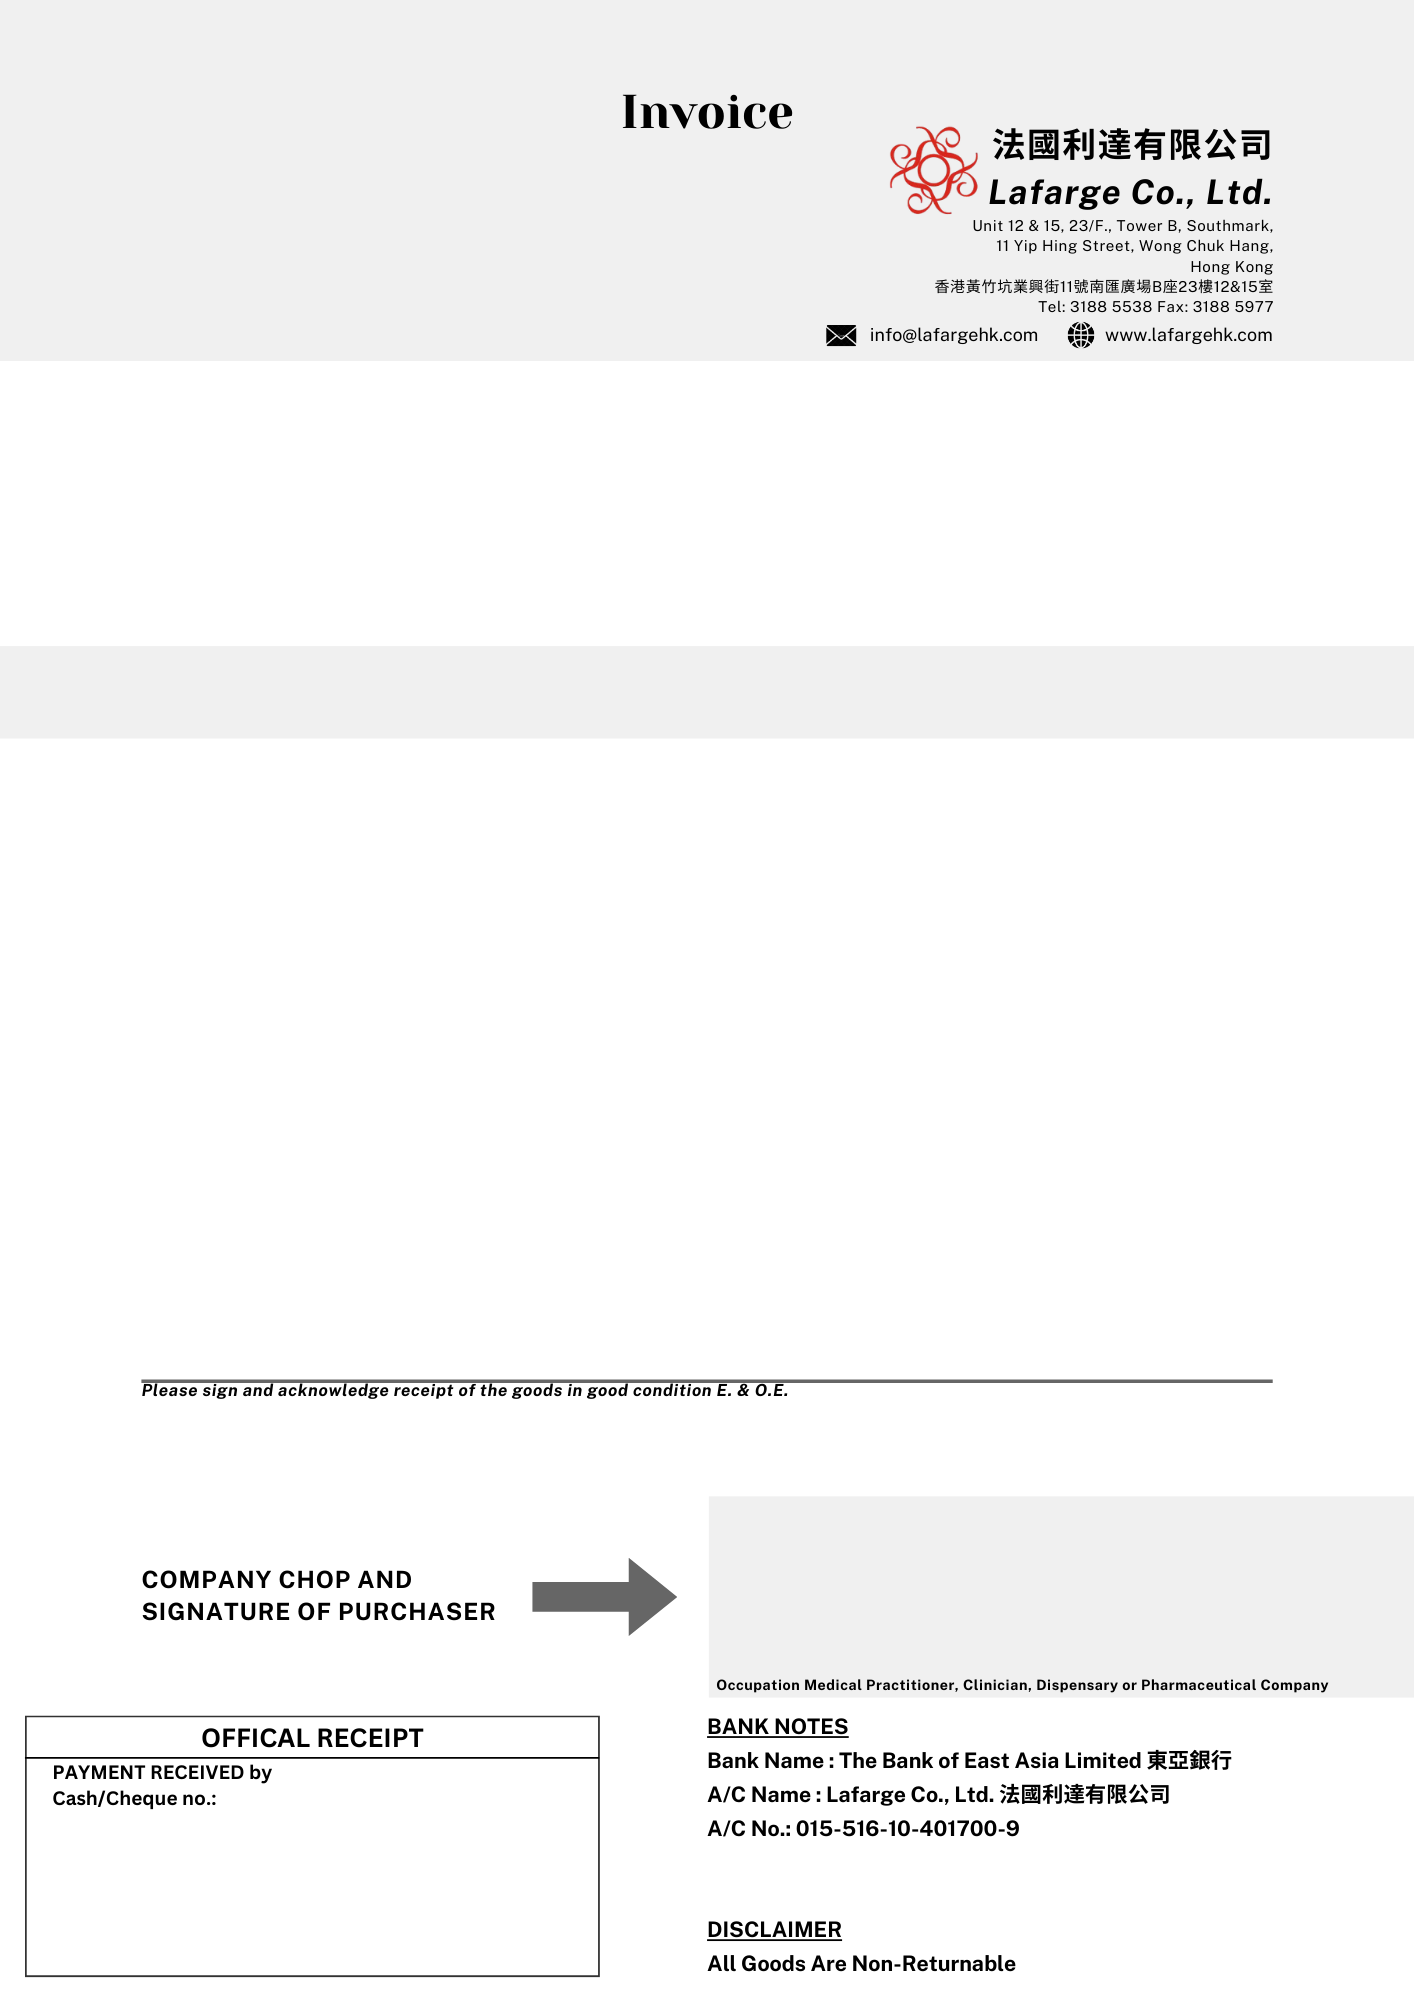
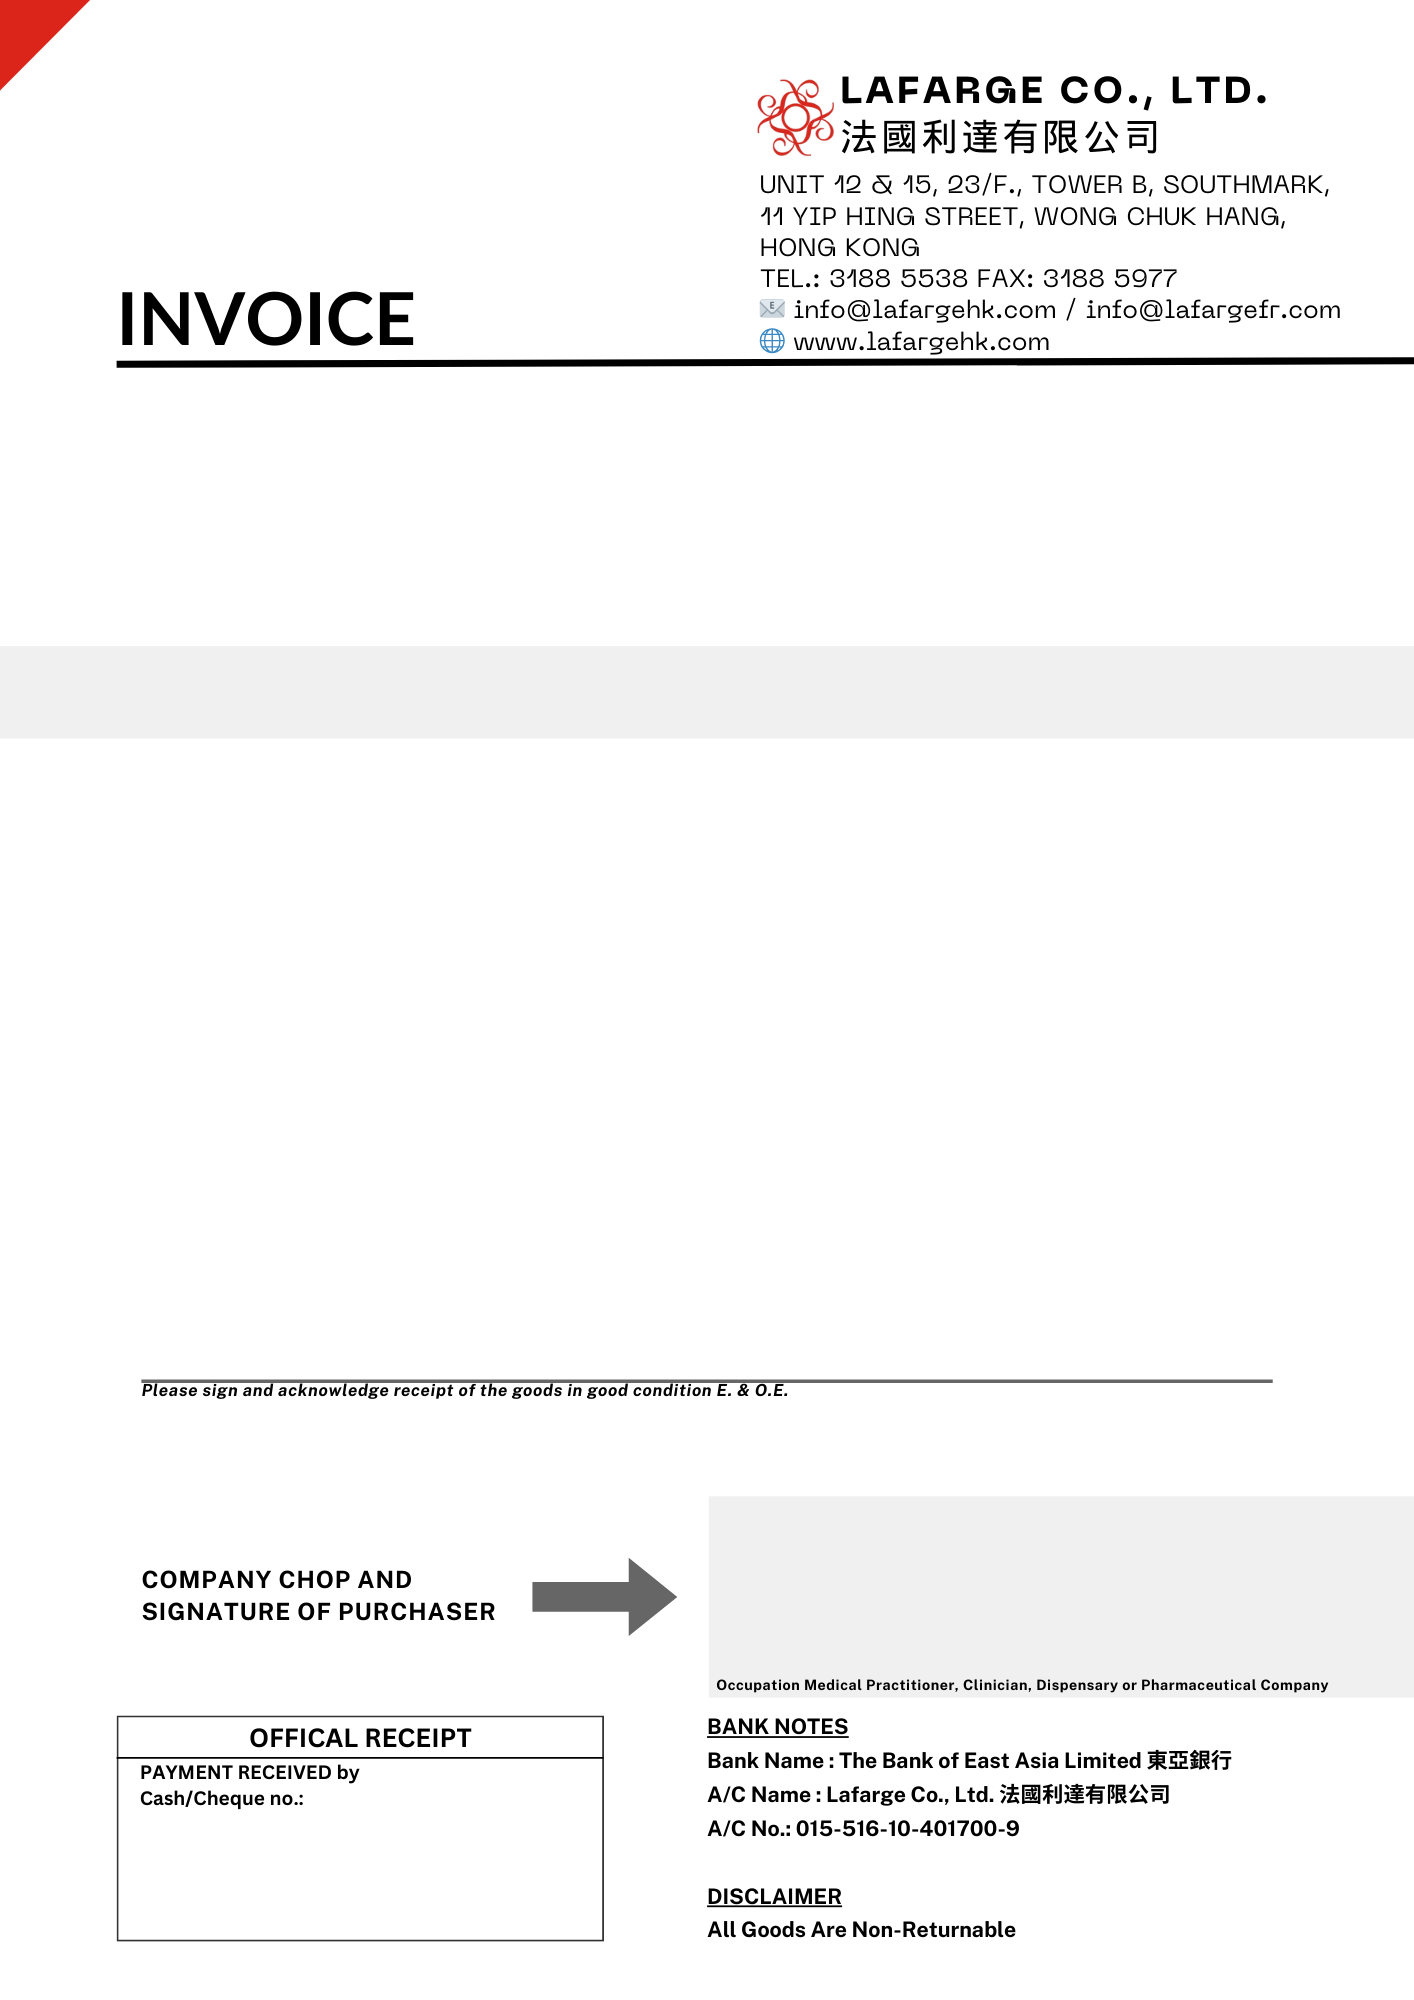
redesign invoice form

diff --git a/lafarge/invoice/templates/invoice/customers_with_unpaid_invoices.html b/lafarge/invoice/templates/invoice/customers_with_unpaid_invoices.html
@@ -1,36 +1,66 @@
 {% extends "invoice/base.html" %}
 
 {% block content %}
-<h1>Customers with Unpaid Invoices</h1>
+   <h1>Customers with Unpaid Invoices</h1>
 
-<table class="table">
-    <thead>
-        <tr>
-            <th>Customer Name</th>
-            <th>Unpaid Invoices</th>
-        </tr>
-    </thead>
-    <tbody>
-        {% for entry in customer_data %}
-        <tr>
-            <td>
-                <a href="{% url 'customer_unpaid_invoices' entry.customer.name %}">
-                    {{ entry.customer.name }}
-                </a>
-            </td>
-            <td>
-                <ul>
-                    {% for invoice in entry.unpaid_invoices %}
-                    <li>
-                        Invoice Number: {{ invoice.number }},
-                        Delivery Date: {{ invoice.delivery_date }},
-                        Amount: {{ invoice.total_price }}
-                    </li>
-                    {% endfor %}
-                </ul>
-            </td>
-        </tr>
-        {% endfor %}
-    </tbody>
-</table>
+    <!-- Display Total Unpaid Amount -->
+    <h2>Total Unpaid Amount: HK$ {{ total_unpaid|floatformat:2 }}</h2>
+
+    <!-- Display Monthly Unpaid Totals -->
+    <h3>Monthly Unpaid Totals:</h3>
+    <table>
+        <thead>
+            <tr>
+                <th>Month</th>
+                <th>Total Unpaid</th>
+            </tr>
+        </thead>
+        <tbody>
+            {% for entry in monthly_unpaid %}
+                <tr>
+                    <td>{{ entry.month|date:"F Y" }}</td>
+                    <td>HK$ {{ entry.total|floatformat:2 }}</td>
+                </tr>
+            {% endfor %}
+        </tbody>
+    </table>
+
+    <!-- Display the list of customers -->
+    <h3>Customers and Unpaid Invoices:</h3>
+    <table>
+        <thead>
+            <tr>
+                <th>Customer Name</th>
+                <th>Unpaid Invoices</th>
+            </tr>
+        </thead>
+        <tbody>
+            {% for entry in customer_data %}
+                <tr>
+                    <td>{{ entry.customer.name }}</td>
+                    <td>
+                        <table>
+                            <thead>
+                                <tr>
+                                    <th>Invoice No.</th>
+                                    <th>Delivery Date</th>
+                                    <th>Total Price</th>
+                                </tr>
+                            </thead>
+                            <tbody>
+                                {% for invoice in entry.unpaid_invoices %}
+                                    <tr>
+                                        <td>{{ invoice.number }}</td>
+                                        <td>{{ invoice.delivery_date|date:"Y-m-d" }}</td>
+                                        <td>HK$ {{ invoice.total_price|floatformat:2 }}</td>
+                                    </tr>
+                                {% endfor %}
+                            </tbody>
+                        </table>
+                    </td>
+                </tr>
+            {% endfor %}
+        </tbody>
+    </table>
+    </table>
 {% endblock %}

diff --git a/lafarge/invoice/pdf_utils.py b/lafarge/invoice/pdf_utils.py
@@ -23,18 +23,22 @@ def draw_invoice_page(pdf, invoice, copy_type):
     # Draw the background image
     if copy_type == "Poison Form":
         background_image_path = os.path.join(settings.STATIC_ROOT, 'PoisonForm.png')
+    elif copy_type == "Customer Copy":
+        background_image_path = os.path.join(settings.STATIC_ROOT, 'CustomerCopy.png')
+    elif copy_type == "Company Copy":
+        background_image_path = os.path.join(settings.STATIC_ROOT, 'CompanyCopy.png')
     else:
         background_image_path = os.path.join(settings.STATIC_ROOT, 'Invoice.png')
     pdf.drawImage(background_image_path, 0, 0, width, height)
-
+    pdf.setFont("Helvetica-Bold", 12)
     # Set title font and position based on the copy type
-    if copy_type == "Customer Copy" or copy_type == "Company Copy":
-        pdf.setFont("Helvetica-Bold", 10)
-        pdf.drawString(50, height - 73, copy_type)
-
-    elif copy_type == "Original":
-        pdf.setFont("Helvetica-Bold", 10)
-        pdf.drawString(50, height - 73, copy_type)
+    # if copy_type == "Customer Copy" or copy_type == "Company Copy":
+    #     pdf.setFont("Helvetica-Bold", 10)
+    #     pdf.drawString(200, height - 145, copy_type)
+    #
+    # elif copy_type == "Original":
+    #     pdf.setFont("Helvetica-Bold", 10)
+    #     pdf.drawString(200, height - 145, copy_type)
 
     # Customer information
     address_lines = [line.strip() for line in invoice.customer.address.split("\n") if line.strip()]
@@ -78,10 +82,10 @@ def draw_invoice_page(pdf, invoice, copy_type):
     pdf.drawString(50, height - 53, f"Invoice No. : {invoice.number}")
     # Salesman and Date
     pdf.setFont("Helvetica-Bold", 10)
-    pdf.drawString(50, height - 105, f"Date : ")
-    pdf.drawString(50, height - 125, f"Salesman : {invoice.salesman.name}")
+    pdf.drawString(50, height - 73, f"Date : ")
+    pdf.drawString(50, height - 93, f"Salesman : {invoice.salesman.name}")
     if copy_type != "Poison Form":
-        pdf.drawString(50, height - 145, f"Terms : {invoice.terms}")
+        pdf.drawString(50, height - 113, f"Terms : {invoice.terms}")
 
     # Table for Invoice Items
     if copy_type == "Poison Form":

diff --git a/lafarge/invoice/views.py b/lafarge/invoice/views.py
@@ -21,6 +21,9 @@ from .tables import InvoiceTable, CustomerTable, InvoiceFilter, CustomerFilter, 
 from django_tables2.config import RequestConfig
 from django_tables2.export.export import TableExport
 
+from django.db.models.functions import TruncMonth
+from django.db.models import Sum
+
 class StaffMemberRequiredMixin(UserPassesTestMixin):
     def test_func(self):
         return self.request.user.is_staff
@@ -224,10 +227,11 @@ def product_transaction_detail(request, product_id):
         'filter': filterset
     })
 
+
 @staff_member_required
 def customers_with_unpaid_invoices(request):
+    customers = Customer.objects.filter(invoice__payment_date__isnull=True).distinct()
     unpaid_invoices = Invoice.get_unpaid_invoices()
-    customers = Customer.objects.filter(invoice__in=unpaid_invoices).distinct()
     customer_data = [
         {
             "customer": customer,
@@ -235,8 +239,27 @@ def customers_with_unpaid_invoices(request):
         }
         for customer in customers
     ]
+    # Calculate the total unpaid amount
+    total_unpaid = Invoice.objects.filter(payment_date__isnull=True).aggregate(
+        total=Sum('total_price')
+    )['total'] or 0  # Default to 0 if no unpaid invoices
 
-    return render(request, "invoice/customers_with_unpaid_invoices.html", {"customer_data": customer_data})
+    # Calculate monthly unpaid totals
+    monthly_unpaid = (
+        Invoice.objects.filter(payment_date__isnull=True)
+            .annotate(month=TruncMonth('delivery_date'))
+            .values('month')
+            .annotate(total=Sum('total_price'))
+            .order_by('month')
+    )
+
+    context = {
+        'customers': customers,
+        'total_unpaid': total_unpaid,
+        'monthly_unpaid': monthly_unpaid,
+        'customer_data': customer_data,
+    }
+    return render(request, 'invoice/customers_with_unpaid_invoices.html', context)
 
 @staff_member_required
 def unpaid_invoices_by_customer(request, customer_name):
